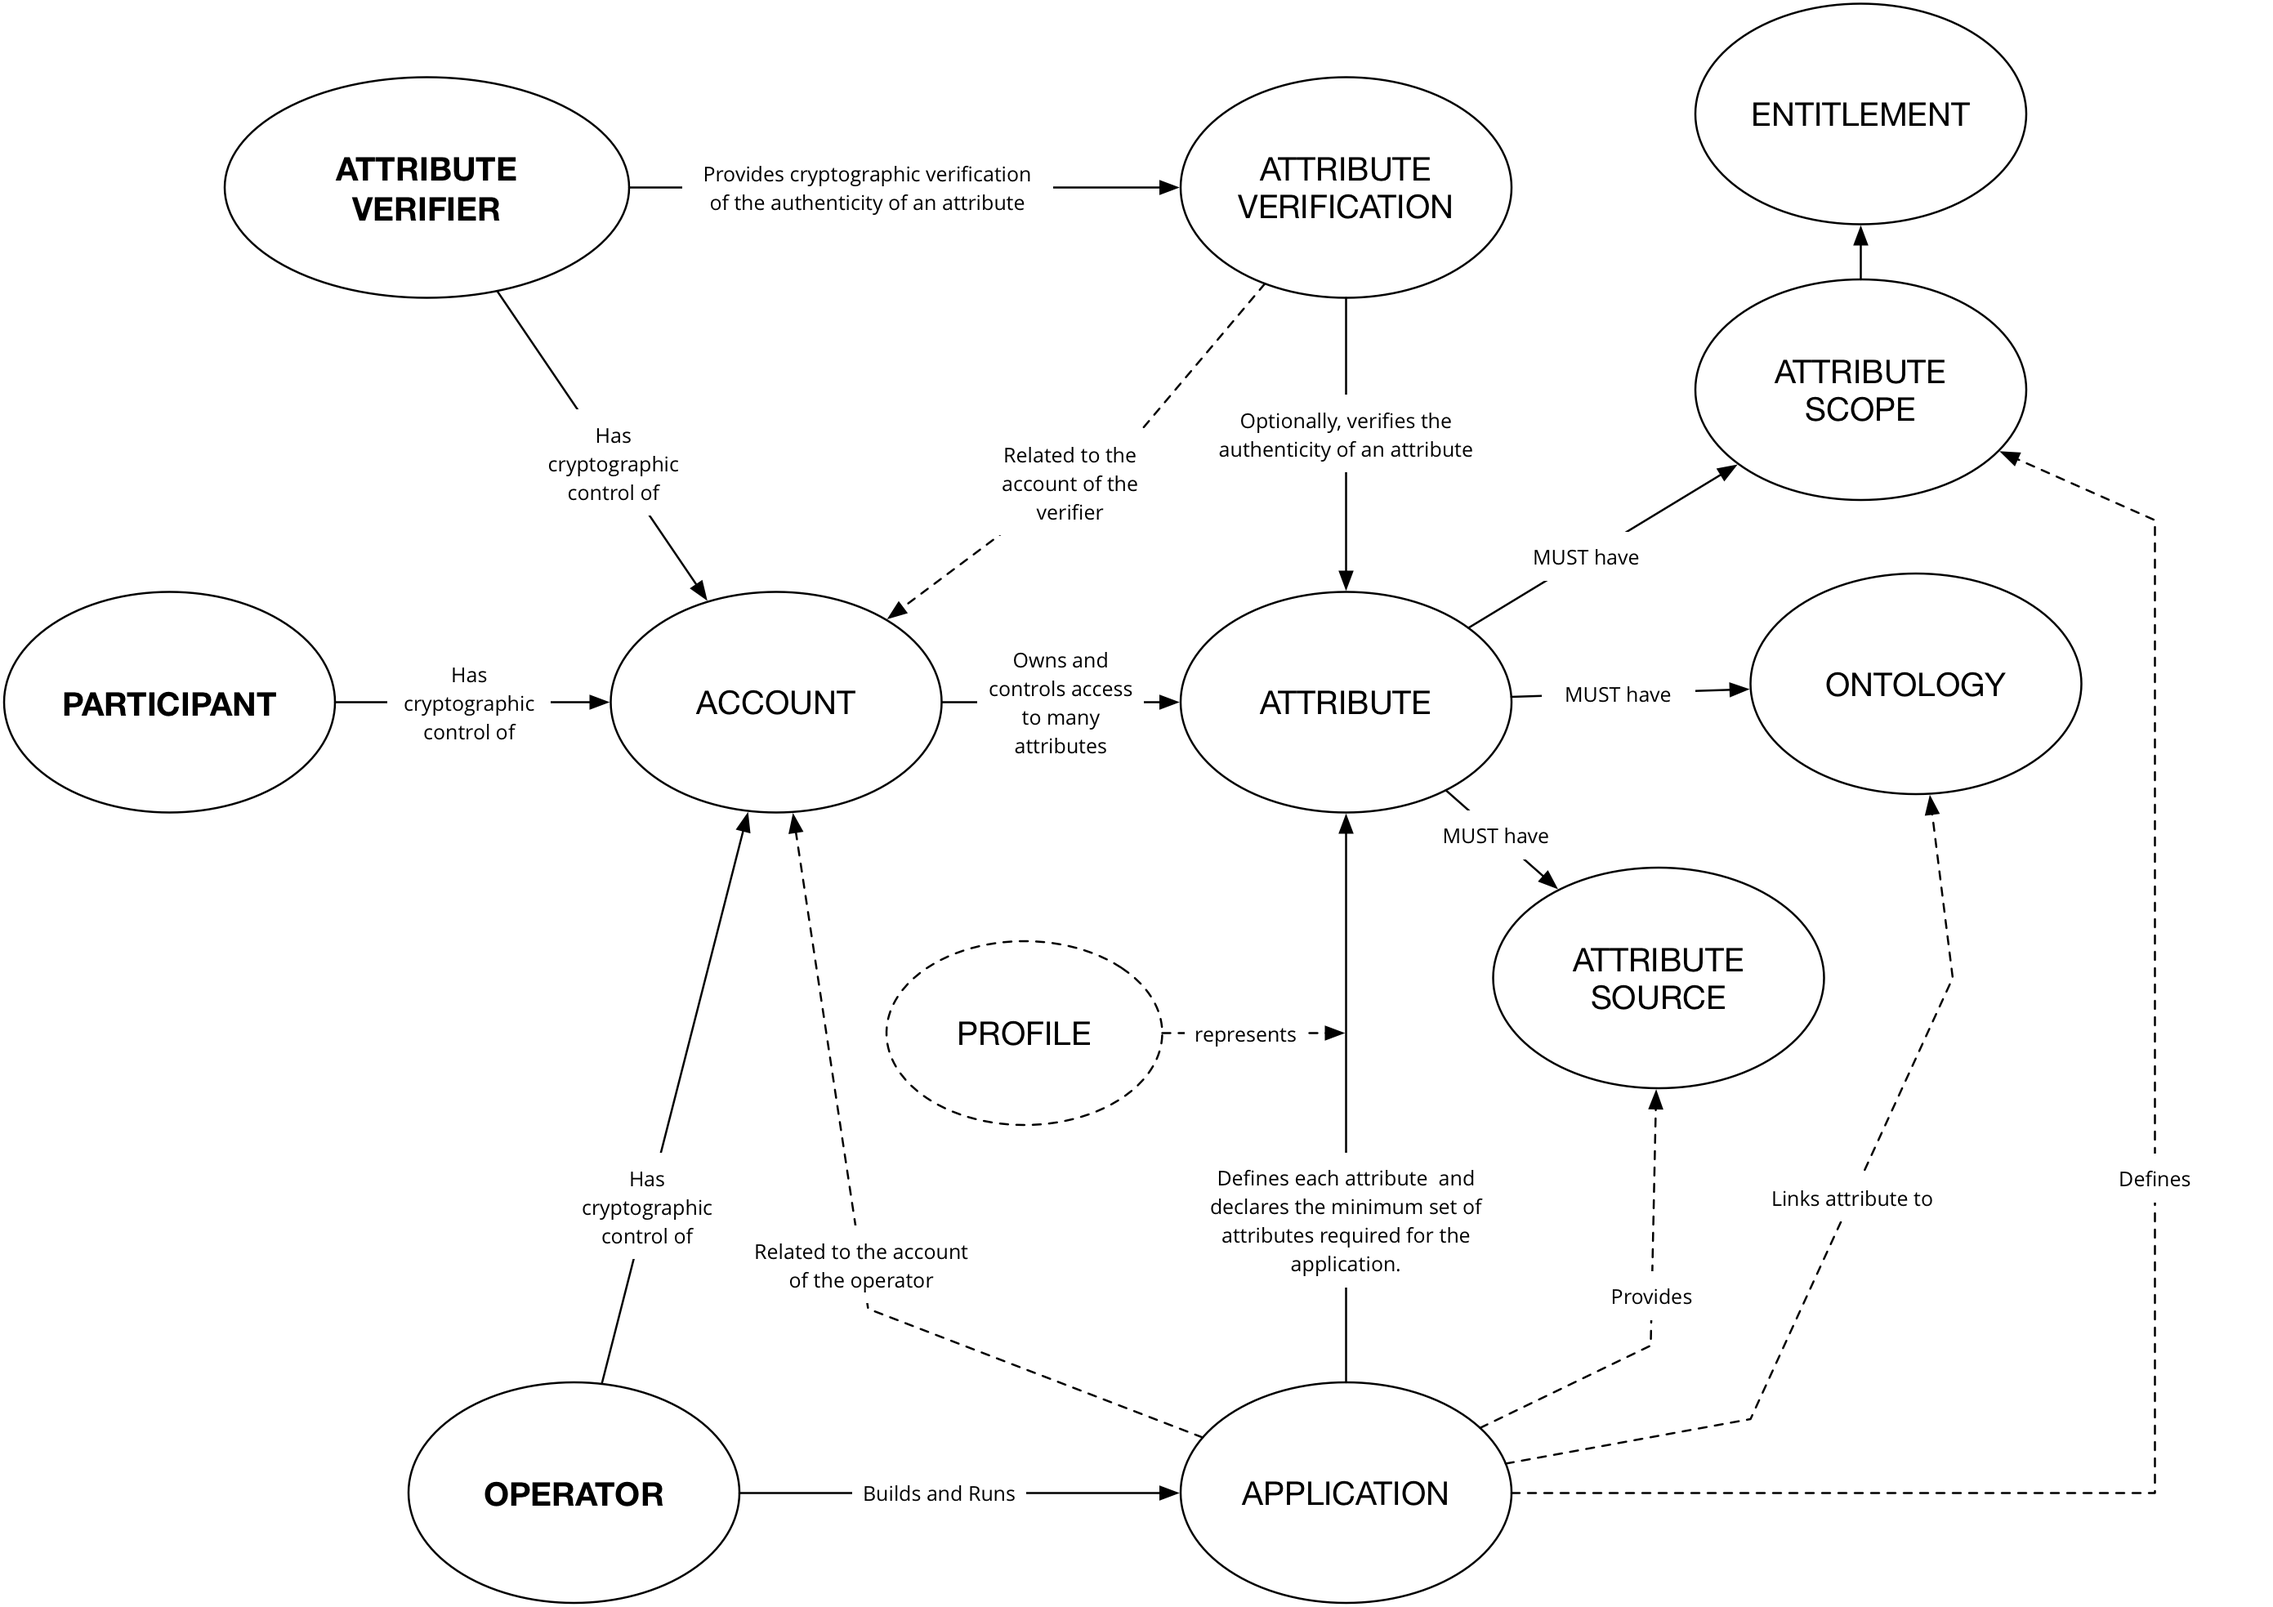
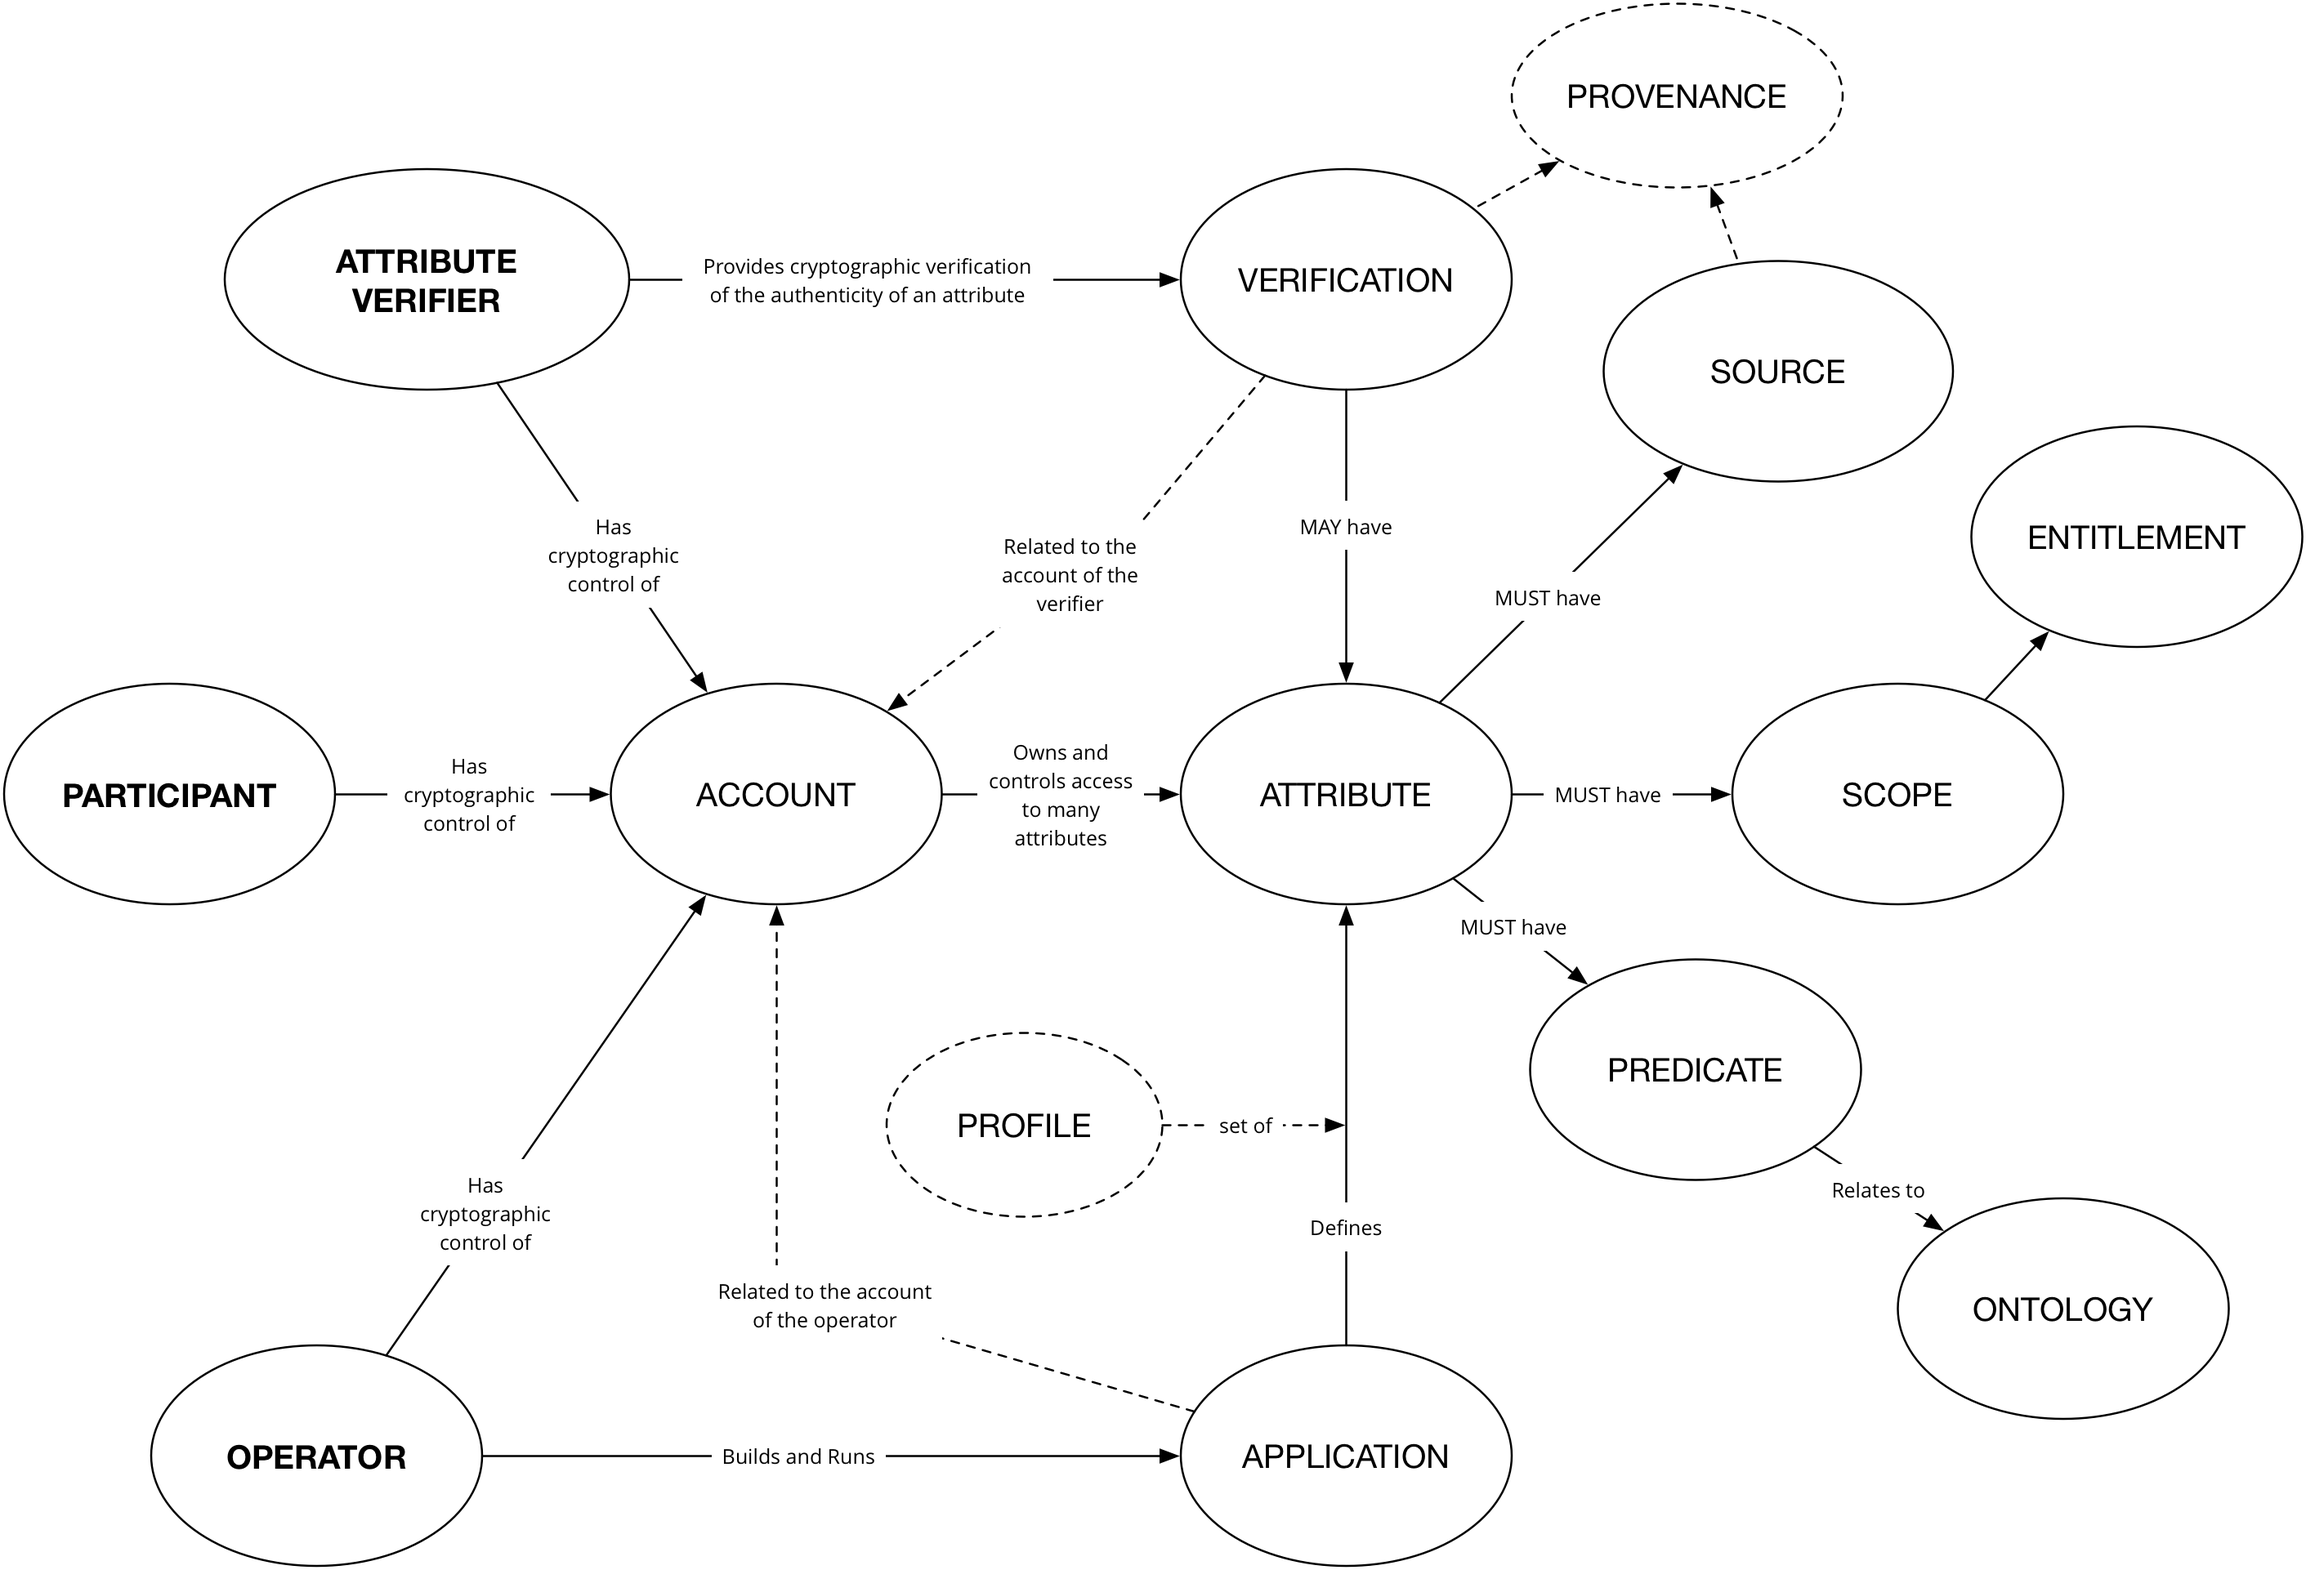
Updating terminology diagram

diff --git a/conceptual_framework.md b/conceptual_framework.md
@@ -68,13 +68,13 @@ jimb: I've removed original section about this from here - but one concept that 
 ```
 ## Attributes
 
-Data items alone provide little value, for example the string "Paris" could mean many things to many people. In order to be able to make a useful system that can process data, and in particular provide additional value for the purpose of data privacy and integrity, DECODE implements a conceptual model that attaches other key concepts to an attribute. This model allows us to make **claims** about attributes. We begin with a basic structure of the form:
+Data items alone provide little value, for example the string "Paris" could mean many things to many people. In order to be able to make a useful system that can process data, and in particular provide additional value for the purpose of data privacy and integrity, DECODE implements a conceptual model that attaches meta-data to an attribute. This model allows us to make **claims** about attributes. We begin with a basic structure of the form:
 
 ATTRIBUTE = (SUBJECT PREDICATE OBJECT)
 
 Where the SUBJECT is the entity to which the attribute relates (in DECODE terms, the account), the PREDICATE describes the relationship between the  SUBJECT and the OBJECT and the OBJECT is the value of the attribute.
 
-Thus we might say (say in JSON):
+Thus we might say (e.g. in JSON):
 
 ```
 locality : ["decode-account:543232", “schema:addressLocality", "Paris"]
@@ -83,7 +83,7 @@ locality : ["decode-account:543232", “schema:addressLocality", "Paris"]
 ATTRIBUTE           SUBJECT                 PREDICATE           OBJECT
 ```
 
-where `schema` and `decode-account` are [URNs](https://www.w3.org/TR/uri-clarification/#urn-namespaces) to [https://schema.org/](https://schema.org/) . How to interpret a decode-account URN is TBD.
+where `schema` and `decode-account` are [URNs](https://www.w3.org/TR/uri-clarification/#urn-namespaces) `schema` expands to [https://schema.org/](https://schema.org/) . How to interpret a decode-account URN is TBD.
 
 
 
@@ -137,9 +137,9 @@ verification: a link to zero or more (making it optional) cryptographic verifica
 entitlement_policy: A link to an entitlement policy 
 ```
 
-
+```comment
 Thought - theres a whole part of the proposal around “standards” etc - what if the above formed some form of RFC to define privacy aware attributes? We could at least write it as an RFC and submit it to see what people thought, DECODE would be a reference implementation.
-
+```
 
 
 ### Identity
